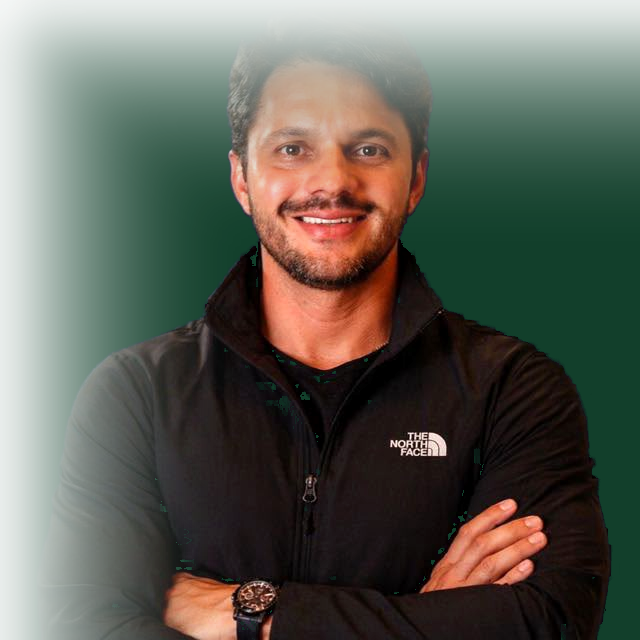
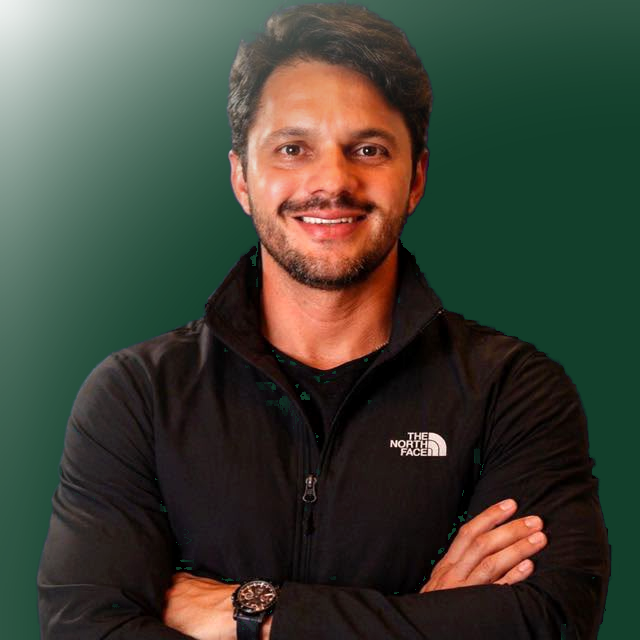
Ajusta foto do fundador (fade radial preservando cabelo, ancorada no bloco de conteudo), remove nome duplicado sobre a foto, corrige concordancia 'sanduiches naturais'

diff --git a/src/routes/index.tsx b/src/routes/index.tsx
@@ -640,52 +640,50 @@ function DepoimentosCompletos() {
 /* -------------------- Bloco 13: Autoridade -------------------- */
 function Autoridade() {
   return (
-    <section className="bg-leaf text-paper-2 relative overflow-hidden">
-      <img
-        src="/gustavo-fundador.png"
-        alt="Gustavo, fundador do Cardápio no Verde"
-        className="hidden md:block pointer-events-none select-none absolute right-0 bottom-0 w-[380px] opacity-90"
-      />
-      <div className="max-w-4xl mx-auto px-5 py-16 md:py-24 relative z-10">
-        <div className="text-[12px] font-extrabold tracking-widest text-[color:var(--receipt)] uppercase">
-          Quem criou
+    <section className="bg-leaf text-paper-2 overflow-hidden">
+      <div className="max-w-4xl mx-auto px-5 py-16 md:py-24 relative">
+        <img
+          src="/gustavo-fundador.png"
+          alt="Gustavo, fundador do Cardápio no Verde"
+          className="hidden md:block pointer-events-none select-none absolute right-0 bottom-0 w-[300px] opacity-90"
+        />
+        <div className="relative z-10 max-w-xl">
+          <div className="text-[12px] font-extrabold tracking-widest text-[color:var(--receipt)] uppercase">
+            Quem criou
+          </div>
+          <h2 className="font-serif text-[36px] md:text-[48px] leading-[1] mt-4 text-paper-2">
+            Feito por quem também sofre com esse problema na prática.
+          </h2>
+          <div className="mt-8 space-y-5 text-[16px] leading-relaxed text-paper-2/90">
+            <p>
+              O Cardápio no Verde foi criado por quem sofre com esse problema na
+              prática — não por alguém que só programou o cálculo e saiu vendendo.
+            </p>
+            <p>
+              Gustavo atua no mercado de alimentação desde 2013. Já teve uma rede
+              própria de lojas de açaí, com marca própria, e hoje administra duas
+              unidades de uma rede de sanduíches naturais — cardápio próprio,
+              ficha técnica de cada item revisada por dentro, não por planilha
+              terceirizada.
+            </p>
+            <p>
+              Foi enfrentando esse mesmo problema — fornecedor que reajusta sem
+              avisar, item que parecia vender bem mas escondia margem apertada —
+              que a ferramenta nasceu.
+            </p>
+            <p>
+              Hoje, além de tocar as operações no dia a dia, também desenvolve
+              automações e aplicativos que ajudam as próprias lojas a reduzir
+              tempo, desperdício e erro de preço — o Cardápio no Verde é um
+              desses.
+            </p>
+            <p>
+              Não é um analista financeiro explicando teoria pra dono de
+              restaurante. É alguém que fecha caixa, negocia com fornecedor e
+              decide preço de cardápio na prática, todo mês, em loja de verdade.
+            </p>
+          </div>
         </div>
-        <h2 className="font-serif text-[36px] md:text-[48px] leading-[1] mt-4 text-paper-2 max-w-xl">
-          Feito por quem também sofre com esse problema na prática.
-        </h2>
-        <div className="mt-8 space-y-5 text-[16px] leading-relaxed text-paper-2/90 max-w-xl">
-          <p>
-            O Cardápio no Verde foi criado por quem sofre com esse problema na
-            prática — não por alguém que só programou o cálculo e saiu vendendo.
-          </p>
-          <p>
-            Gustavo atua no mercado de alimentação desde 2013. Já teve uma rede
-            própria de lojas de açaí, com marca própria, e hoje administra duas
-            unidades de uma rede de sanduíches natural — cardápio próprio, ficha
-            técnica de cada item revisada por dentro, não por planilha
-            terceirizada.
-          </p>
-          <p>
-            Foi enfrentando esse mesmo problema — reajuste de fornecedor sem
-            aviso, item que parecia vender bem mas escondia margem apertada —
-            que a ferramenta nasceu.
-          </p>
-          <p>
-            Hoje, além de tocar as operações no dia a dia, também desenvolve
-            automações e aplicativos que ajudam as próprias lojas a reduzir
-            tempo, desperdício e erro de preço — o Cardápio no Verde é um
-            desses.
-          </p>
-          <p>
-            Não é um analista financeiro explicando teoria pra dono de
-            restaurante. É alguém que fecha caixa, negocia com fornecedor e
-            decide preço de cardápio na prática, todo mês, em loja de verdade.
-          </p>
-        </div>
-        <div className="mt-6 font-extrabold text-paper-2 md:hidden">— Gustavo, fundador</div>
-      </div>
-      <div className="hidden md:block absolute right-8 bottom-6 font-extrabold text-paper-2 z-10">
-        Gustavo
       </div>
     </section>
   );